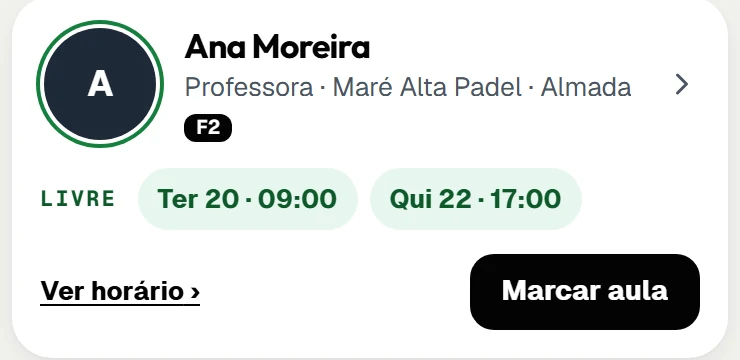
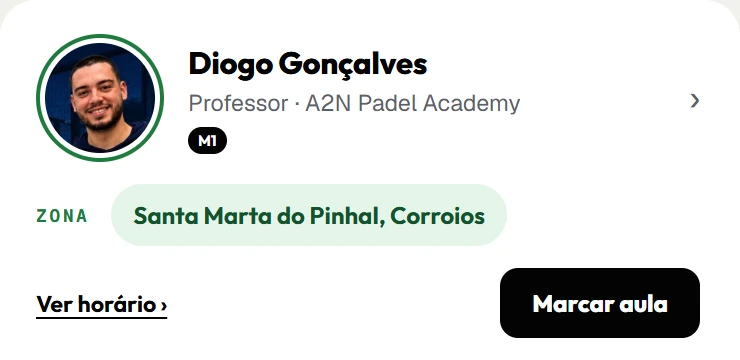
#327 Professores: cartão do Diogo Gonçalves e título da /planos
- public/planos/professor-cartao.webp: o cartão real do Diogo Gonçalves
  na Comunidade, no lugar da professora de exemplo (autorização no #729).
- plans.teachers_shot_caption / _alt em pt, en e es.
- App.jsx PUBLIC_HEAD: título, canonical e descrição próprios da /planos.

diff --git a/src/App.jsx b/src/App.jsx
@@ -409,6 +409,11 @@ const PUBLIC_HEAD = {
     canonical: 'https://www.alinho.pt/como-funciona',
     description: 'Como funciona o alinho.pt: entra num mix pela app ou pelo WhatsApp, vê o teu nível subir, joga torneios e organiza o teu grupo de padel sem confusão.',
   },
+  '/planos': {
+    title: 'Grupos e clubes no alinho.pt: planos para quem organiza',
+    canonical: 'https://www.alinho.pt/planos',
+    description: 'Jogar é sempre grátis. Cada pessoa pode criar um grupo grátis. Os planos são para quando o grupo crescer.',
+  },
   '/professores': {
     title: 'Professores de padel no alinho.pt: aulas e horário',
     canonical: 'https://www.alinho.pt/professores',
